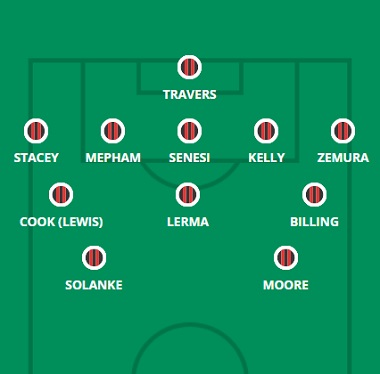
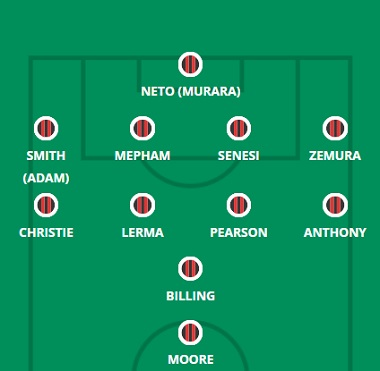
15-20

diff --git a/united.html b/united.html
@@ -63,15 +63,15 @@
     <hgroup>
         <h1> Provável Escalação</h1>
         <h2 class="direita"> por FabioVascão </h2>
-        <h3 class="direita"> Atualizado em 13/Janeiro/2023 </h3>
+        <h3 class="direita"> Atualizado em 20/Janeiro/2023 </h3>
     </hgroup>
 
     <div class="selecao"><p><b><img src="images/logos/manchester-united.png" width="100rem" height="100rem"/> Manchester United</b></p></div>
        
     <div class="escalacao">
         <div class="topo">
-            <h2 class="titulo">Ultimas Notícias</h2> <h4><p> Diogo Dalot não está disponível para o clássico de Manchester no sábado, enquanto Anthony Martial será avaliado por uma pequena lesão na perna que afetou sua capacidade de treinar esta semana; se o francês não jogar, ele deve voltar para o Crystal Palace no meio da semana. Depois de semanas vendo Luke Shaw, Victor Lindelof e até mesmo Harry Maguire no meio-campo, ten Hag certamente vai querer sua dupla de primeira escolha, Lisandro Martinez e Raphael Varane, no lugar para a visita dos campeões em título. Há poucas dúvidas sobre a dupla de zagueiros agora que Dalot está fora, mas a ausência potencial de Martial deixa uma ou duas vagas em disputa mais adiante, dependendo de como dez Hag quer jogar. Um de Alejandro Garnacho ou Anthony Elanga no flanco, com Marcus Rashford no topo, seria a abordagem igual, mas o chefe do United poderia, alternativamente, fazer uma pequena mudança e trazer Fred para o meio-campo, empurrar Christian Eriksen ainda mais para cima e usar Bruno Fernandes em um papel um pouco mais amplo (como fez contra o Bournemouth). Jadon Sancho (condição física para o jogo) e Donny van de Beek (joelho) estão definitivamente de fora.</p></h4><br>
-            <h4><strong>Dúvidas:</strong> Dalot, Martial, Van de Beek e Sancho.</h4>
+            <h2 class="titulo">Ultimas Notícias</h2> <h4><p> A pressão pré-rodada 21 de Erik ten Hag foi na verdade realizada após o empate de quarta-feira com o Crystal Palace, com as cotações embargadas mantidas até hoje. Como resultado, não há muitas novidades sobre os ausentes no meio da semana Anthony Martial (perna) e Diogo Dalot (músculo) - ten Hag disse que não tinha nenhuma notícia recente sobre a dupla quando interrogado em Selhurst Park. Casemiro (suspenso) e Donny van de Beek (joelho) estão definitivamente de fora, pelo que a ausência do primeiro obrigará o seu treinador a pelo menos uma alteração este fim-de-semana. Ten Hag começou com dois 'número seis' no derby de Manchester no fim de semana passado e pode repetir essa experiência nos Emirados, dadas as poucas chances que seus rivais cross-city tiveram, com Scott McTominay potencialmente se juntando a Fred na sala de máquinas. Bruno Fernandes e Christian Eriksen foram recolocados no flanco direito e na posição de número 10, respectivamente, na primeira edição da Gameweek 20, enquanto Antony foi introduzido pelo meio no intervalo para o lesionado Martial. Desde então, é claro, Wout Weghorst chegou ao clube e, embora sua estreia no meio da semana tenha sido tranquila, sua pressão e capacidade de trazer outros para o jogo foram notáveis. Aaron Wan-Bissaka, Raphael Varane e Luke Shaw parecem titulares garantidos na defesa e quem se juntará a eles dependerá de Shaw ser usado como zagueiro ou lateral-esquerdo, com Lisandro Martinez e Tyrell Malacia brigando pela inclusão. Jadon Sancho (aptidão para o jogo) está lentamente voltando à disputa do time principal e voltou a treinar esta semana, mas a viagem ao Arsenal ainda pode acontecer muito cedo.</p></h4><br>
+            <h4><strong>Dúvidas:</strong> Dalot, Martial, Van de Beek, Casemiro e Sancho.</h4>
         </div>
         <aside>
             <figure>

diff --git a/arsenal.html b/arsenal.html
@@ -63,15 +63,15 @@
     <hgroup>
         <h1> Provável Escalação</h1>
         <h2 class="direita"> por FabioVascão </h2>
-        <h3 class="direita"> Atualizado em 13/Janeiro/2023 </h3>
+        <h3 class="direita"> Atualizado em 20/Janeiro/2023 </h3>
     </hgroup>
 
     <div class="selecao"><p><b><img src="images/logos/arsenal.svg" width="100rem" height="100rem"/> Arsenal</b></p></div>
        
     <div class="escalacao">
         <div class="topo">
-            <h2 class="titulo">Ultimas Notícias</h2> <h4><p> Tendo dito anteriormente que Bukayo Saka estava "bem" após sua substituição forçada no Oxford United na segunda-feira, Mikel Arteta introduziu o menor elemento de dúvida - "Acho que ele ficará bem" - para manter todos em dúvida antes do derby do norte de Londres. Em outros lugares, Gabriel Jesus (joelho) e Reiss Nelson (músculo) permanecem na lista de lesões, mas o Arsenal tem um atestado de saúde indo para o derby do norte de Londres, com Emile Smith Rowe fazendo seu tão esperado retorno como reserva no meio da semana. O XI titular dos Gunners tem sido sem dúvida o time mais fácil de prever em 2022/23, tal tem sido a preferência de Mikel Arteta por impulso enquanto suas tropas estão no topo da divisão. Neste XI aqui, todos, exceto o substituto de Jesus, Eddie Nketiah e Oleksandr Zinchenko, começaram todas as partidas da liga para as quais estiveram disponíveis em 2022/23. Mesmo assim, sabemos que Zinchenko é a primeira escolha de Arteta como lateral-esquerdo (seu único banco veio de uma lesão) e Nketiah está privado de uma competição significativa enquanto Jesus permanecer indisponível. Fabio Vieira entraria na equação se Saka perdesse, com Marquinhos ainda menos testado neste nível e Smith-Rowe certamente ainda não está pronto para começar.</p></h4><br>
-            <h4><strong>Dúvidas:</strong> Jesus, Nelson e Saka.</h4>
+            <h2 class="titulo">Ultimas Notícias</h2> <h4><p> Gabriel Jesus (joelho) e Reiss Nelson (músculo) permanecem na lista de lesionados, enquanto não ouvimos nenhuma palavra oficial sobre o motivo pelo qual Mohamed Elneny perdeu o derby do norte de Londres no fim de semana passado. Mikel Arteta, no entanto, disse na coletiva de imprensa de sexta-feira que os Gunners não tinham novas preocupações, enquanto ele acredita que a papelada necessária foi feita para permitir que Leandro Trossard faça sua estreia na 21ª rodada. prever em 2022/23, tal tem sido a preferência de Arteta pelo dinamismo enquanto as suas tropas lideram a divisão. Neste XI aqui, todos, exceto Eddie Nketiah e Oleksandr Zinchenko, começaram todas as partidas da liga para as quais estiveram disponíveis em 2022/23. Mesmo assim, sabemos que Zinchenko é a primeira escolha de Arteta como lateral-esquerdo (seu único banco veio de uma lesão) e Nketiah está privado de uma competição igual enquanto Jesus permanecer indisponível. Jogadores como Fabio Vieira e Emile Smith Rowe provavelmente serão usados novamente como substitutos poupadores de perna, a menos que haja alguma lesão tardia afetando os regulares, com Trossard também definido para ser envolvido no banco.</p></h4><br>
+            <h4><strong>Dúvidas:</strong> Jesus e Nelson.</h4>
         </div>
         <aside>
             <figure>

diff --git a/wolves.html b/wolves.html
@@ -63,15 +63,15 @@
     <hgroup>
         <h1> Provável Escalação</h1>
         <h2 class="direita"> por FabioVascão </h2>
-        <h3 class="direita"> Atualizado em 13/Janeiro/2023 </h3>
+        <h3 class="direita"> Atualizado em 20/Janeiro/2023 </h3>
     </hgroup>
 
     <div class="selecao"><p><b><img src="images/logos/wolverhampton.png" width="100rem" height="100rem"/> Wolverhampton</b></p></div>
        
     <div class="escalacao">
         <div class="topo">
-            <h2 class="titulo">Ultimas Notícias</h2> <h4><p> Julen Lopetegui não poderá contar com Boubacar Traore (coxa), Pedro Neto (tornozelo), Chiquinho (joelho) e Sasa Kalajdzic (joelho) na jornada 20, todos com lesões de longa duração. Diego Costa, por sua vez, será avaliado depois de ter perdido as duas últimas partidas do Wolves com um pequeno problema. Caso não possa ser titular, a nova contratação Matheus Cunha pode substituí-lo, tendo saído do banco em cada um dos últimos três jogos, embora Raul Jimenez possa ser o preferido após o empate no City Ground no meio da semana. Hugo Bueno, Ruben Neves e Daniel Podence surgiram como reservas nessa partida e vão pressionar por reconvocações, com Jonny e Rayan Ait-Nouri entre os nomes potencialmente desistentes se Lopetegui voltar ao sistema 4-3-3 que ele tem favorito na liga até agora; houve um flerte com um sistema lateral no meio da semana.</p></h4><br>
-            <h4><strong>Dúvidas:</strong>Kalajdzic, Neto (Pedro), Chiquinho, Diego Costa e Traoré (Boubacar).</h4>
+            <h2 class="titulo">Ultimas Notícias</h2> <h4><p> Julen Lopetegui não poderá contar com os ausentes de longa data Boubacar Traore (coxa), Pedro Neto (tornozelo), Chiquinho (joelho) e Sasa Kalajdzic (joelho) na jornada 21, mas não tem novas preocupações na viagem ao Etihad. Nove jogadores são titulares sempre presentes na liga sob o comando de Lopetegui (João Moutinho e a nova contratação de Matheus Cunha são as exceções) e algumas atuações fortes na vitória por 1 a 0 sobre o West Ham sem dúvida tentarão o técnico do Wolves a deixar as coisas inalteradas novamente. No entanto, um confronto contra os campeões em título é um assunto totalmente mais complicado e pode levar a uma escalação de cavalos para os cursos. Lopetegui ocasionalmente usou um sistema lateral em seu curto período com o Wolves, então não está fora de questão que Toti Gomes entre na lateral em detrimento de um corpo mais avançado. Rayan Ait-Nouri, mais um zagueiro do que um zagueiro, pode se antecipar a Hugo Bueno se isso se concretizar. Pablo Sarabia deve ser convocado pela primeira vez (provavelmente como substituto) e o novo recruta Mario Lemina pode ameaçar o início de Moutinho, enquanto Diego Costa está em forma novamente e também volta ao topo.</p></h4><br>
+            <h4><strong>Dúvidas:</strong>Kalajdzic, Neto (Pedro), Chiquinho e Traoré (Boubacar).</h4>
         </div>
         <aside>
             <figure>

diff --git a/bourne.html b/bourne.html
@@ -63,15 +63,15 @@
     <hgroup>
         <h1> Provável Escalação</h1>
         <h2 class="direita"> por FabioVascão </h2>
-        <h3 class="direita"> Atualizado em 13/Janeiro/2023 </h3>
+        <h3 class="direita"> Atualizado em 20/Janeiro/2023 </h3>
     </hgroup>
 
     <div class="selecao"><p><b><img src="images/logos/bourne.png" width="100rem" height="100rem"/> Bournemouth</b></p></div>
        
     <div class="escalacao">
         <div class="topo">
-            <h2 class="titulo">Ultimas Notícias</h2> <h4><p> Gary O'Neil deu algumas notícias vagas da equipe em sua prensa pré-jogo, dizendo que os Cherries farão "algumas ligações tardias". Adam Smith está definitivamente fora por suspensão, enquanto Murara Neto (coxa), David Brooks (coxa), Marcus Tavernier (coxa), Ryan Fredericks (“pequeno problema”) e Junior Stanislas (“pequeno problema”) foram afastados recentemente e pode estar entre os nomes aos quais O'Neil aludiu acima. Os Cherries estão em má forma, sem um sistema lateral nem um 4-4-2/4-4-1-1 impedindo a queda pós-Copa do Mundo. Jack Stacey deve entrar no lugar de Smith em qualquer sistema preferido, e não seria uma surpresa se O'Neil optasse pelo máximo de altura possível (um zagueiro extra, Philip Billing, Kieffer Moore etc.) força nas cobranças de falta e escanteios. Ryan Christie e Jaidon Anthony provavelmente seriam os homens sacrificados se vermos uma mudança de sistema, tendo operado nas laterais em um 4-4-2.</p></h4><br>
-            <h4><strong>Dúvidas:</strong> Brooks, Fredericks, Neto (Murara), Stanislas, Smith e Tavernier.</h4>
+            <h2 class="titulo">Ultimas Notícias</h2> <h4><p> Gary O'Neil confirmou na sexta-feira que Dominic Solanke "ainda está desaparecido" com a lesão no joelho que o levou a ficar de fora da Rodada 20, enquanto Lewis Cook (joelho) ficará de fora por "algumas semanas" depois de mancar contra o Brentford. David Brooks (coxa) e Marcus Tavernier (coxa) permanecem fora dos gramados, mas não houve notícias sobre Ryan Fredericks ou Junior Stanislas no presser de O'Neil, após suas recentes ausências com "pequenos problemas". Adam Smith retorna após suspensão e deve reassumir sua posição como lateral-direito (ou meio-campo direito, dependendo da formação), com Ben Pearson e Joe Rothwell brigando para substituir Cook no meio-campo. Dada a importância potencial deste confronto para a tentativa de sobrevivência do Cherries na primeira divisão e a falta de gols no momento, O'Neil também pode ficar tentado a trazer de volta Jordan Zemura como lateral-esquerdo para dar mais impulso à sua equipe no ataque. Dango Ouattara estará no plantel, mas depois de chegar apenas no final da semana, um papel no banco parece o cenário mais provável para o jovem extremo.</p></h4><br>
+            <h4><strong>Dúvidas:</strong> Brooks, Fredericks, Stanislas, Cook, Solanke e Tavernier.</h4>
         </div>
         <aside>
             <figure>
